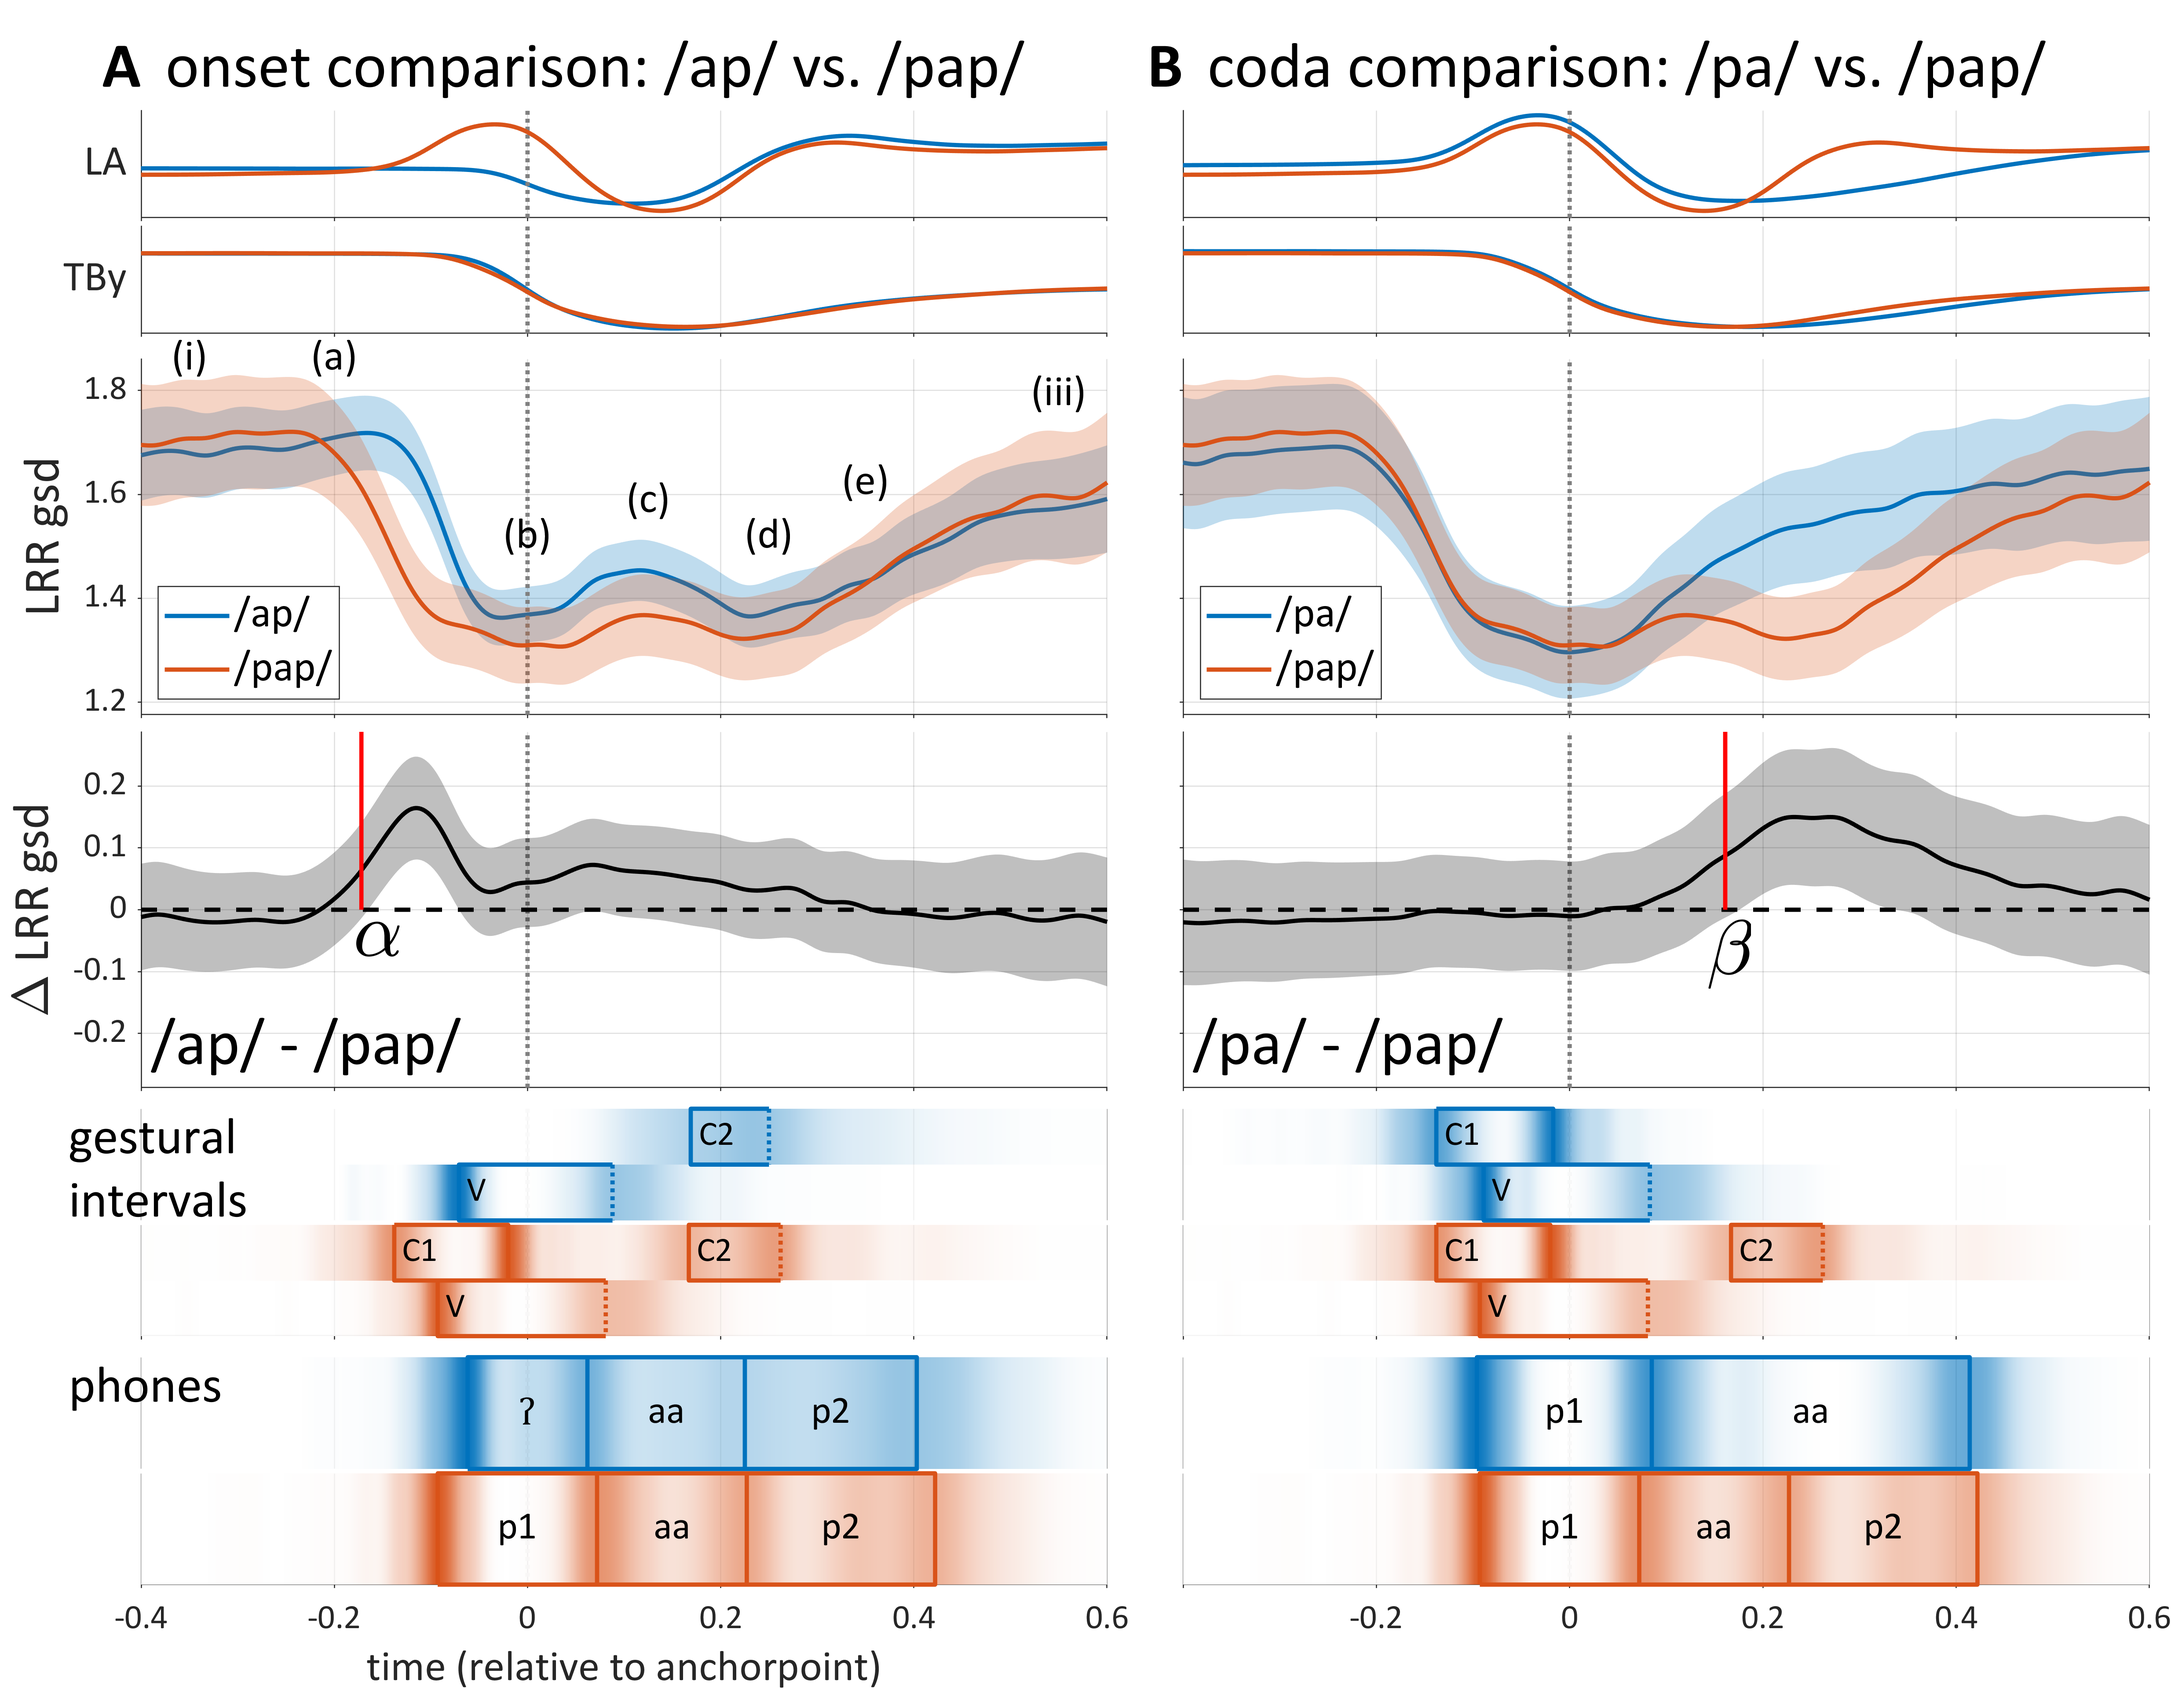
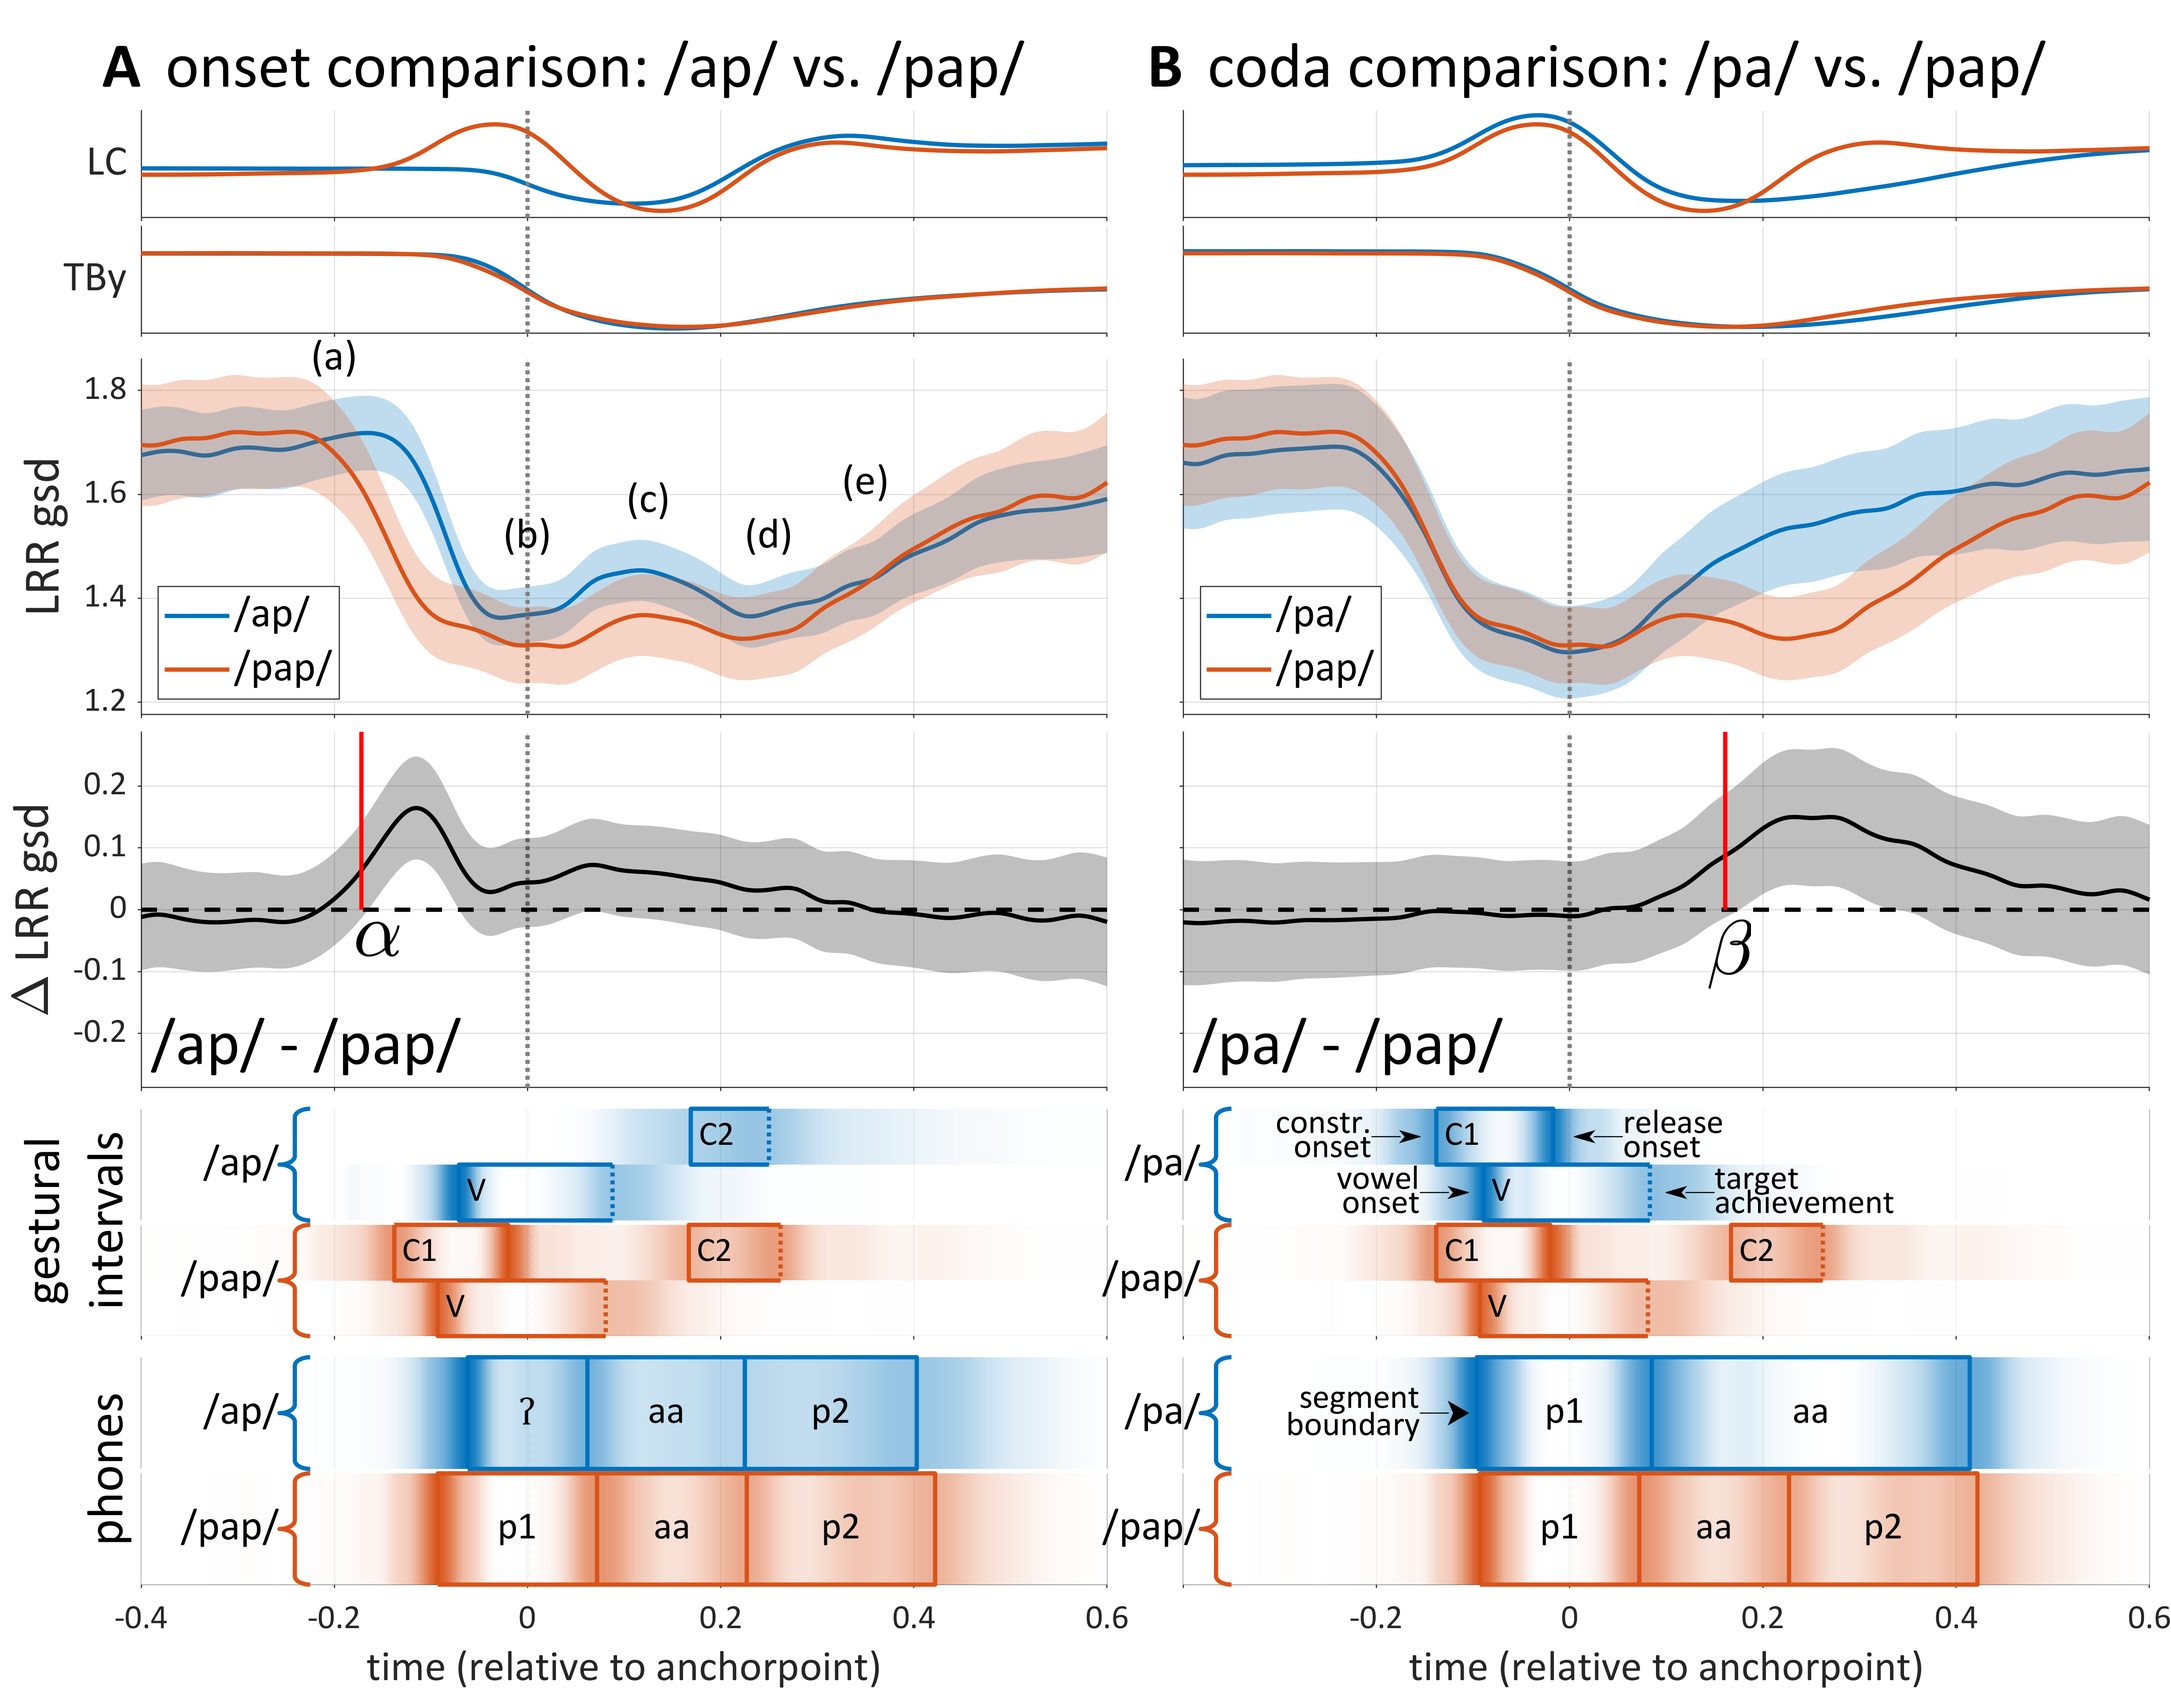
figure typo correction

diff --git a/figure_code/fig_LRR_gam_events.m b/figure_code/fig_LRR_gam_events.m
@@ -175,7 +175,7 @@ axrescale(ax(1:4,:),0,0.05);
 
 xlabel(axc(end,1:2),'time (relative to anchorpoint)','fontsize',h.fs(3));
 
-ylabel(ax(1,1),'LA','FontSize',h.fs(3),'rotation',0,'hori','right','verti','mid');
+ylabel(ax(1,1),'LC','FontSize',h.fs(3),'rotation',0,'hori','right','verti','mid');
 ylabel(ax(2,1),'TBy','FontSize',h.fs(3),'rotation',0,'hori','right','verti','mid');
 ylabel(ax(3,1),'LRR gsd','fontsize',h.fs(2));
 ylabel(ax(4,1),'\Delta LRR gsd','fontsize',h.fs(2));
@@ -284,7 +284,7 @@ for i=1:length(conds)
         LL = squeeze(rx.mu(1,chix({'LLx' 'LLy'}),:));
         UL = squeeze(rx.mu(1,chix({'ULx' 'ULy'}),:));
         x = -sqrt(sum((LL-UL).^2));
-        T(end+1).lab = 'LA';
+        T(end+1).lab = 'LC';
         T(end).x = x-mean(x);
         T(end).panix = 1;
     end

diff --git a/helpers/plottools/draw_arrow.m b/helpers/plottools/draw_arrow.m
@@ -9,7 +9,7 @@ def_facecolor = [0 0 0];
 
 addRequired(p,'lh',@(x)ishandle(x));
 addOptional(p,'loc',def_loc,@(x)isscalar(x));
-addOptional(p,'sz',def_sz,@(x)isscalar(x));
+addOptional(p,'sz',def_sz,@(x)isscalar(x) || isvector(x));
 addParameter(p,'edgecolor',def_edgecolor);
 addParameter(p,'facecolor',def_facecolor);
 
@@ -49,7 +49,7 @@ arxy = XY(1,:) + vs;
 PP = [0 2; -1 0; 0 0.5; 1 0];
 
 %resize
-PP = PP*sz;
+PP = PP.*sz;
 
 %rotate
 PP = PP*[cos(th) -sin(th); sin(th) cos(th)];
